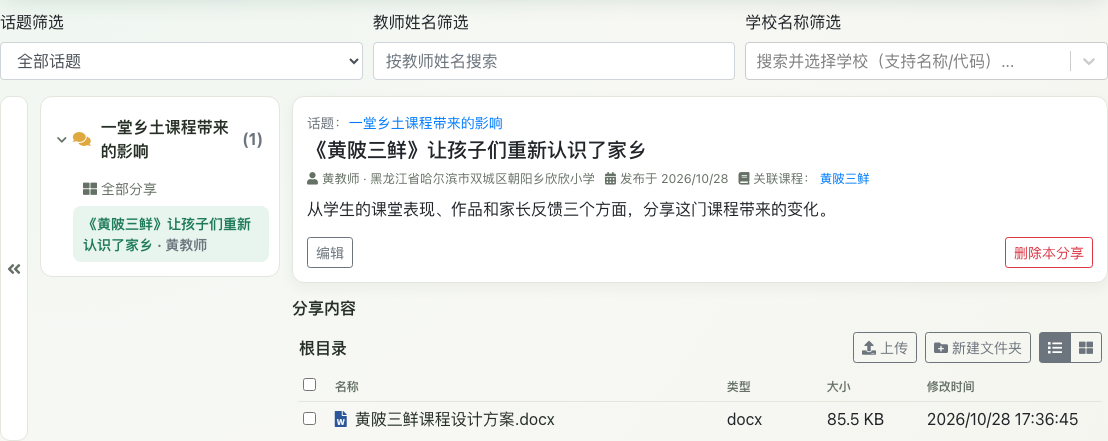
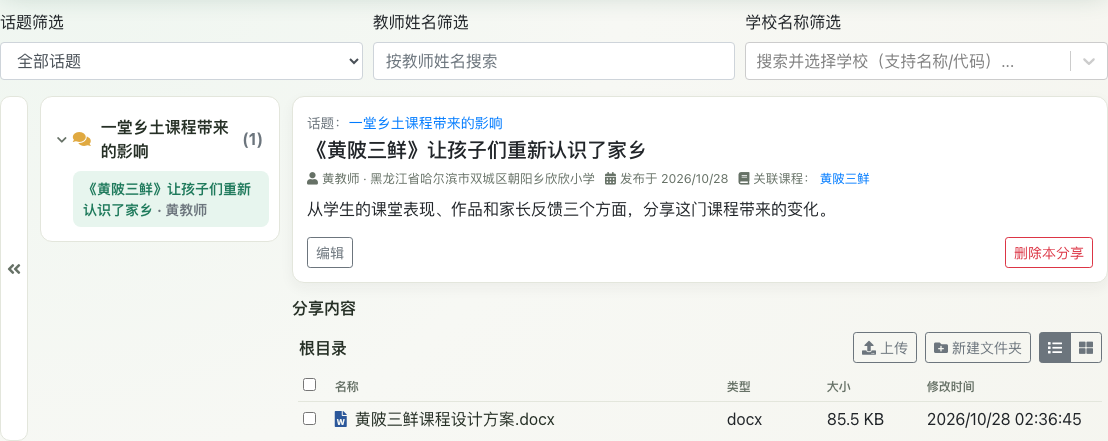
教师分享: clicking a 话题 opens its share cards; drop 全部分享 leaf
The topic row itself now selects the topic's card view (highlighted when
active, expands if collapsed); the chevron alone toggles expand/collapse.
Teacher manual text and teacher-share screenshot updated.

Changed region(s): [[0.0614, 0.4127, 0.2455, 0.5896], [0.9206, 0.9138, 0.9819, 0.9728]]

diff --git a/backend/app/services/teacherManualGenerator.js b/backend/app/services/teacherManualGenerator.js
@@ -344,7 +344,7 @@ push(
   bulletItem("「全部乡土课程」：先显示「学年学期 → 学校 → 教师」目录，点击教师后显示该教师的课程设计。"),
   bulletItem("课程设计详情页：先显示「计划 / 实施」目录，点击某个板块（如「基本信息」「WHY」「课时 1 → 实施记录」）后显示该板块。"),
   bulletItem("「学习资源库」：先显示分类/主题目录，点击主题下的标签页后显示对应内容。"),
-  bulletItem("「教师分享」：先显示话题目录，点击话题下的「全部分享」或某条分享后显示对应内容。"),
+  bulletItem("「教师分享」：先显示话题目录，点击话题即在右侧以卡片列出该话题下的全部分享，点击某条分享后显示其内容。"),
   bulletItem(
     "内容上方有一条显示当前位置的横条（如「‹ WHY · 学习目标」），点击它或使用手机的「返回」手势即可回到目录；" +
       "回到目录不会丢失尚未保存的修改。"
@@ -973,11 +973,11 @@ push(
     "页面上方的筛选栏可按「话题」「教师姓名」「学校名称」查找分享（可组合使用，学校支持按名称或代码搜索），用法与「全部乡土课程」相同；" +
       "筛选后左侧只显示有匹配分享的话题，括号中显示「匹配数/总数」，点击「清除筛选」恢复全部。"
   ),
-  bulletItem("左侧目录列出全部话题，括号中的数字是该话题下的分享数；点击话题展开，可看到「全部分享」和每条分享。"),
-  bulletItem("「全部分享」以卡片形式列出该话题下的所有分享（标题、简介、作者及学校、发布日期、关联课程），点击「查看分享」打开。"),
+  bulletItem("左侧目录列出全部话题，括号中的数字是该话题下的分享数；点击话题左侧的箭头可展开/收起，看到其下的每条分享。"),
+  bulletItem("点击话题名称，右侧以卡片形式列出该话题下的所有分享（标题、简介、作者及学校、发布日期、关联课程），点击「查看分享」打开。"),
   bulletItem("打开一条分享后，可看到其话题、作者、发布日期、关联课程（点击课程名可跳转到该课程设计）和简介，下方「分享内容」中可预览、下载文件。"),
   h2("发布分享"),
-  bulletItem("在左侧选择话题，打开「全部分享」，点击右上角的「我要分享」。"),
+  bulletItem("在左侧点击话题，再点击右侧话题栏中的「我要分享」。"),
   bulletItem("填写「标题」（必填）、「简介」（可选），并可在「关联课程」中选择您的一门乡土课程（可选）。"),
   bulletItem("点击「发布」后即进入这条分享，在下方「分享内容」中上传文件：与「支撑材料」相同的文件管理器，支持多文件、拖拽整个文件夹、新建文件夹、移动和删除。"),
   h2("修改与删除分享"),

diff --git a/react-app/src/components/teacher-share.component.js b/react-app/src/components/teacher-share.component.js
@@ -834,8 +834,26 @@ const TeacherShare = () => {
               return (
                 <div className="pl-explorer-group" key={topic.id}>
                   <div className="pl-explorer-row">
-                    <button type="button" className="pl-explorer-folder pl-explorer-row-main" onClick={() => toggleTopic(topic.id)}>
-                      <i className={`fas fa-chevron-${expandedTopics[topic.id] ? "down" : "right"} pl-explorer-chevron`}></i>
+                    {/* Clicking the 话题 itself opens its share-card view on the
+                        right (there's no separate 全部分享 leaf); the chevron
+                        alone expands/collapses its share list. A click on an
+                        unselected, collapsed 话题 also expands it. */}
+                    <button
+                      type="button"
+                      className={`pl-explorer-folder pl-explorer-row-main ${selected.topicId === topic.id && selected.view === "topic" ? "is-active" : ""}`}
+                      data-explorer-leaf
+                      onClick={() => {
+                        if (!expandedTopics[topic.id]) toggleTopic(topic.id);
+                        select(topic.id, "topic");
+                      }}
+                    >
+                      <i
+                        className={`fas fa-chevron-${expandedTopics[topic.id] ? "down" : "right"} pl-explorer-chevron`}
+                        onClick={(e) => {
+                          e.stopPropagation();
+                          toggleTopic(topic.id);
+                        }}
+                      ></i>
                       <i className="fas fa-comments pl-folder-icon mr-1"></i> {topic.title}
                       <span className="text-muted ml-1">({filtersActive ? `${shares.length}/${topic.shareCount}` : topic.shareCount})</span>
                     </button>
@@ -874,13 +892,6 @@ const TeacherShare = () => {
                   </div>
                   {expandedTopics[topic.id] && (
                     <div className="pl-explorer-children">
-                      <button
-                        type="button"
-                        className={`pl-explorer-leaf ${selected.topicId === topic.id && selected.view === "topic" ? "is-active" : ""}`}
-                        onClick={() => select(topic.id, "topic")}
-                      >
-                        <i className="fas fa-th-large mr-1"></i>{tr("全部分享")}
-                      </button>
                       {shares.map((s) => (
                         <button
                           type="button"

diff --git a/react-app/src/curriculum.css b/react-app/src/curriculum.css
@@ -543,6 +543,13 @@
   background: var(--pl-accent-soft);
 }
 
+/* A selectable folder row (e.g. teacher-share's 话题, which opens its own
+   share-card view) -- same highlight as a selected leaf. */
+.pl-explorer-folder.is-active {
+  background: var(--pl-accent-soft);
+  color: var(--pl-accent);
+}
+
 .pl-explorer-chevron {
   width: 12px;
   font-size: 11px;

diff --git a/react-app/src/i18n/en/part6.js b/react-app/src/i18n/en/part6.js
@@ -127,7 +127,6 @@ const en = {
   "新建话题": " New topic",
   "暂无分享话题。": "No share topics yet.",
   "没有符合条件的分享。": "No matching shares.",
-  "全部分享": " All shares",
 
   // template-admin
   "课程设计方案模板（WHY/WHAT/HOW）": "Course design template (WHY/WHAT/HOW)",
